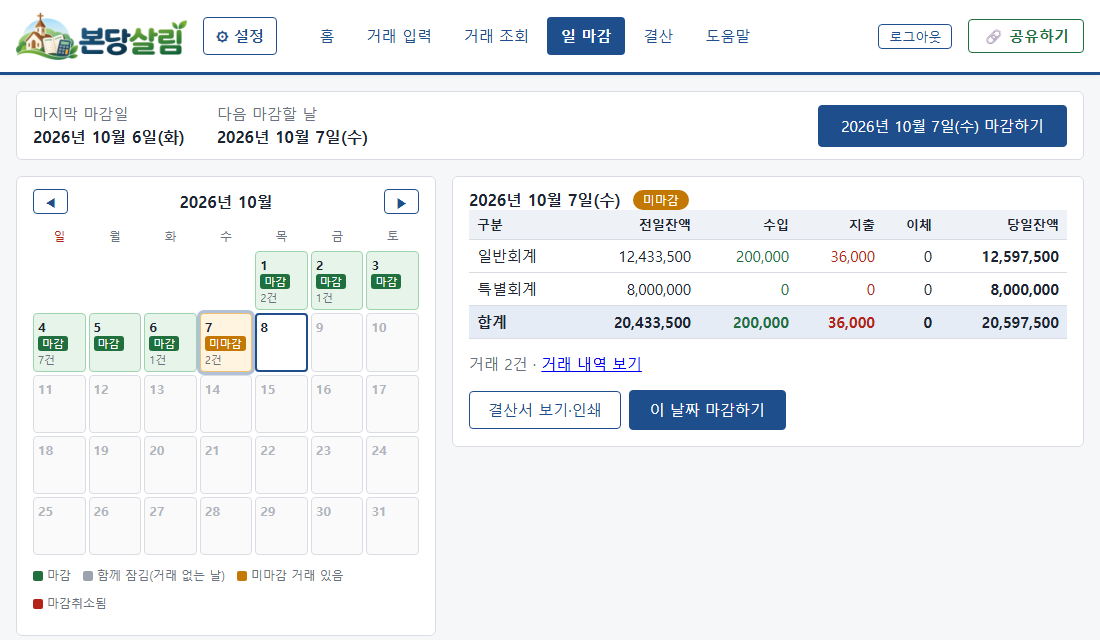
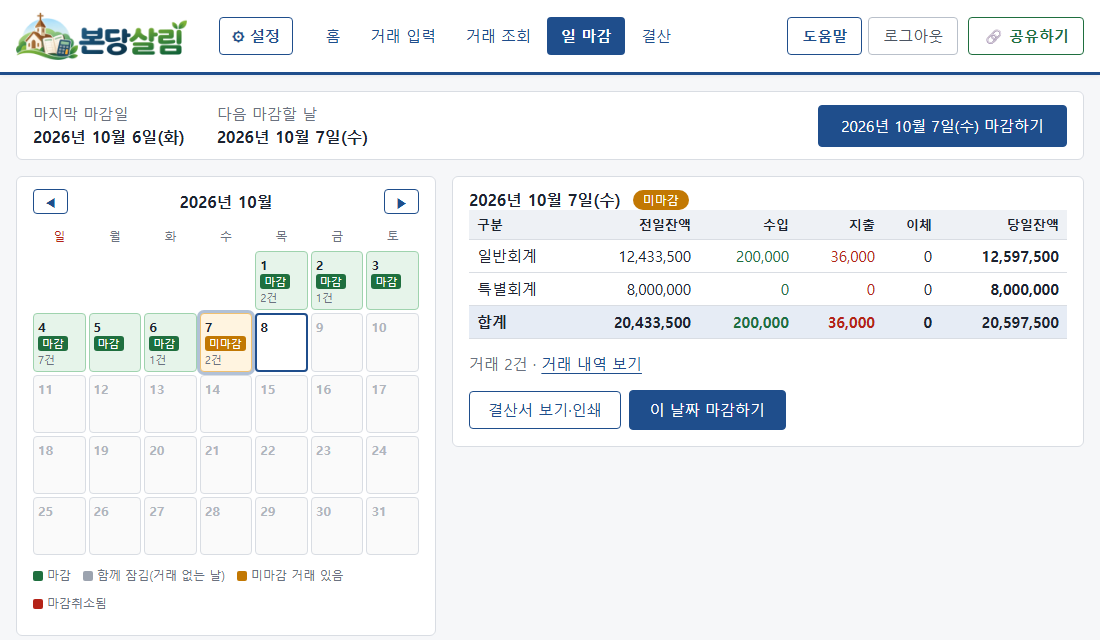
도움말 내용 점검·보완, 사이트 디자인 일관성 다듬기
도움말
- 오른쪽 위 [도움말]로 그 화면 설명이 열린다는 안내, 함께 사용으로 등록된 경우 바로 장부가 열림
- 일 마감: 빨강(마감취소됨), 마감할 때 결산서 작성자 확인, 마감취소 메모는 선택
- 거래 조회: [오늘][이번 달][지난 달], 적요·증빙 검색 / 백업: 홈의 [지금 백업]
- 설정: 운영 개시일은 거래 입력 뒤 변경 불가 / 자주 묻는 질문: [공유하기]
- 화면 그림 4장 다시 찍음 (바뀐 상단 메뉴)

디자인·문구
- 글 속 링크를 사이트 남색으로 (방문한 링크 보라색 없앰)
- 한글은 사이트 전체에서 어절 단위 줄바꿈, 표 칸은 긴 적요도 칸 안에서 줄바꿈
- 로고와 [설정] 사이 여백, 화면이 좁으면 [공유하기]는 아이콘만 (메뉴 한 줄 유지)
- 홈 맨 아래 개발용 문구(DB 연결 정상 · 스키마) 삭제
- 일 마감 확인 창: '입력·수정·취소' → '입력·수정·삭제'
- 개인정보처리방침 표 첫 칸 줄바꿈 없음

diff --git a/public/help.html b/public/help.html
@@ -29,7 +29,7 @@
     <main class="help-main" id="help">
       <section>
         <h1>본당살림 사용 설명서</h1>
-        <p class="muted">처음 쓰시는 분은 1번부터 차례로 읽어 보세요. 궁금한 것만 찾으려면 아래에 단어를 넣으세요.</p>
+        <p class="muted">처음 쓰시는 분은 1번부터 차례로 읽어 보세요. 궁금한 것만 찾으려면 아래에 단어를 넣으세요.<br>어느 화면에서든 오른쪽 위 <b>[도움말]</b>을 누르면 그 화면의 설명이 바로 열립니다.</p>
         <div class="help-search">
           <input id="help-q" type="search" placeholder="예) 마감취소, 이체, 백업, 결재선">
           <button type="button" class="secondary" id="help-clear" hidden>모두 보기</button>
@@ -47,6 +47,7 @@
         <figure><img src="/img/help/setup.png" alt="최초 설정 화면: 성당명, 운영 개시일, 결산서 작성자" loading="lazy" width="1100" height="400"></figure>
         <div class="tip">💡 <b>운영 개시일</b>은 잔액을 확실히 아는 날로 정하세요. 예를 들어 11월 1일로 정하면, 각 통장의 초기잔액은 <b>10월 31일 마감 잔액</b>입니다. 운영 개시일 이전 날짜로는 거래를 넣을 수 없습니다.</div>
         <p>설정을 마치면 홈 화면의 <b>[바탕화면에 아이콘 만들기]</b>를 눌러 두세요. 다음부터는 아이콘만 누르면 열립니다.</p>
+        <p class="help">다른 사람이 [설정 → 함께 사용]에 내 구글 이메일을 등록해 두었다면, 로그인하는 순간 2·3단계 없이 그 성당 장부가 바로 열립니다.</p>
       </section>
 
       <section id="entry" data-keywords="거래 입력 수입 지출 저장 단축키 F2 F3 F4 Enter 수정 삭제 고치기 지우기 적요 증빙">
@@ -82,9 +83,10 @@
         <p>그날 입력을 다 했으면 <b>[일 마감]</b>에서 그날을 마감합니다. 마감한 날은 잠겨서 실수로 바뀌지 않고, 결산서의 "가결산" 표시가 없어집니다.</p>
         <figure><img src="/img/help/closing.png" alt="일 마감 화면: 달력(초록 마감, 주황 미마감)과 선택한 날의 현황, 마감하기 버튼" loading="lazy" width="1100" height="640"></figure>
         <ul>
-          <li>달력 색: <b class="in">초록</b> 마감 · <b style="color:#9ca3af">회색</b> 거래 없는 날(함께 잠김) · <b style="color:#c27803">주황</b> 마감 안 한 거래 있음</li>
+          <li>달력 색: <b class="in">초록</b> 마감 · <b style="color:#9ca3af">회색</b> 거래 없는 날(함께 잠김) · <b style="color:#c27803">주황</b> 마감 안 한 거래 있음 · <b class="out">빨강</b> 마감취소됨</li>
+          <li>[이 날짜 마감하기]를 누르면 그날의 잔액과 <b>결산서 작성자</b>가 나옵니다. 확인하고 [마감]을 누릅니다.</li>
           <li>마감은 <b>날짜 순서대로</b>만 됩니다. 앞 날짜에 마감 안 한 거래가 있으면 뒤 날짜를 마감할 수 없습니다.</li>
-          <li><b>마감취소</b>는 가장 마지막에 마감한 날부터 거꾸로만 됩니다. 마감취소한 뒤 고치고 다시 마감하세요.</li>
+          <li><b>마감취소</b>는 가장 마지막에 마감한 날부터 거꾸로만 됩니다. 달력에서 그날을 고르고 [마감취소]를 누릅니다(메모는 적지 않아도 됩니다). 고친 뒤 다시 마감하세요.</li>
         </ul>
       </section>
 
@@ -95,15 +97,15 @@
         <div class="tip">🖨 인쇄 창에서 <b>용지 A4 · 여백 기본값 · 배율 100 · 머리글과 바닥글 해제</b>로 맞추면 깔끔하게 나옵니다. 종이 오른쪽 아래에 출력 일시가 찍힙니다.</div>
       </section>
 
-      <section id="ledger" data-keywords="거래 조회 검색 기간 통장 잔액 대조 은행">
+      <section id="ledger" data-keywords="거래 조회 검색 기간 오늘 이번 달 지난 달 통장 잔액 대조 은행 증빙">
         <h2><span class="hn">6</span>거래 조회</h2>
-        <p>기간 · 통장 · 과목 · 구분 · 검색어로 거래를 찾습니다. 시작일을 고르면 종료일도 같은 날로 맞춰집니다.</p>
+        <p>기간 · 통장 · 예산과목 · 구분 · 적요(증빙) 검색어로 거래를 찾습니다. <b>[오늘] [이번 달] [지난 달]</b>을 누르면 기간이 바로 정해지고, 시작일을 고르면 종료일도 같은 날로 맞춰집니다.</p>
         <div class="tip">💡 통장을 하나 고르면 거래마다 잔액이 나와서 <b>은행 통장 사본과 한 줄씩 맞춰 볼</b> 수 있습니다.</div>
       </section>
 
       <section id="backup" data-keywords="백업 내려받기 파일 json 보관 USB">
         <h2><span class="hn">7</span>백업</h2>
-        <p>장부는 본당살림 서버에 저장되지만, 만일에 대비해 <b>한 달에 한 번</b>쯤 <b>[설정 → 백업 → 백업 파일 내려받기]</b>로 장부 전체를 파일로 받아 USB나 OneDrive에 두세요.</p>
+        <p>장부는 본당살림 서버에 저장되지만, 만일에 대비해 <b>한 달에 한 번</b>쯤 <b>[설정 → 백업 → 백업 파일 내려받기]</b>로 장부 전체를 파일로 받아 USB나 OneDrive에 두세요. 백업한 지 오래되면 홈 화면에 빨간 글씨로 알려 주고, 거기서 <b>[지금 백업]</b>을 눌러도 됩니다.</p>
         <div class="warn">⚠ 백업 파일에는 신자 이름과 금액이 들어 있습니다. 다른 사람에게 보내지 마세요.</div>
       </section>
 
@@ -135,7 +137,7 @@
         <table class="grid">
           <thead><tr><th>탭</th><th>바꿀 수 있는 것</th></tr></thead>
           <tbody>
-            <tr><td>성당 정보</td><td>성당명, 결산서 작성자</td></tr>
+            <tr><td>성당 정보</td><td>성당명, 결산서 작성자 (운영 개시일은 거래를 입력한 뒤에는 바꿀 수 없음)</td></tr>
             <tr><td>통장 · 예산과목</td><td>추가 · 이름 바꾸기 · 순서 · 사용 중지 (거래가 있으면 지울 수 없고 사용 중지)</td></tr>
             <tr><td>결재선</td><td>결산서 결재란의 직함</td></tr>
             <tr><td>백업</td><td>백업 파일 내려받기</td></tr>
@@ -145,12 +147,13 @@
         </table>
       </section>
 
-      <section id="faq" class="help-faq" data-keywords="질문 문의 집 창 닫기 실수 통장 사무장">
+      <section id="faq" class="help-faq" data-keywords="질문 문의 집 창 닫기 실수 통장 사무장 공유 알리기 다른 성당">
         <h2><span class="hn">?</span>자주 묻는 질문</h2>
         <details><summary>집에서도 쓸 수 있나요?</summary><p>네. 어느 컴퓨터에서든 같은 구글 계정으로 로그인하면 같은 장부가 열립니다.</p></details>
         <details><summary>입력하다 실수로 창을 닫으면 어떻게 되나요?</summary><p>저장 버튼을 누른 거래는 이미 서버에 저장되어 있습니다. 다시 열면 그대로 있습니다.</p></details>
         <details><summary>마감한 날의 거래를 고치고 싶어요.</summary><p>[일 마감]에서 그날까지 마감취소를 한 뒤 고치고, 다시 마감하세요.</p></details>
         <details><summary>통장이 더 이상 필요 없어요.</summary><p>거래가 있는 통장은 지울 수 없고 [사용 중지]로 바꿉니다. 지난 결산서는 그대로 남습니다.</p></details>
+        <details><summary>다른 성당에도 알려 주고 싶어요.</summary><p>오른쪽 위 <b>[공유하기]</b>를 누르면 사이트 주소를 복사할 수 있습니다. 카카오톡이나 문자로 보내 주세요. 각 성당 장부는 따로 만들어져서 우리 성당 자료는 전달되지 않습니다.</p></details>
         <details><summary>사무장이 바뀌면요?</summary><p><a href="#members">9. 사무장이 바뀌었을 때</a>를 보세요.</p></details>
         <details><summary>문의는 어디로 하나요?</summary><p><a href="mailto:jangsangyun0310@gmail.com">jangsangyun0310@gmail.com</a> 으로 보내 주세요.</p></details>
       </section>

diff --git a/public/css/app.css b/public/css/app.css
@@ -16,6 +16,10 @@
 * { box-sizing: border-box; }
 html { scroll-padding-top: 90px; } /* #backup 같은 바로가기가 메뉴 줄에 가리지 않게 */
 body { margin: 0; background: var(--bg); color: var(--text); }
+/* 글 속 링크는 사이트 색(남색)으로. 방문한 링크도 같은 색 */
+a { color: var(--accent); text-underline-offset: 3px; }
+a:visited { color: var(--accent); }
+a:hover { color: #163a6b; }
 
 /* ---- 상단 메뉴 ---- */
 /* 스크롤해도 맨 위 메뉴 줄은 화면 위에 붙어 있다 */
@@ -33,12 +37,12 @@ body { margin: 0; background: var(--bg); color: var(--text); }
 .topbar-inner.wide { max-width: 1280px; }
 .topbar-inner.a4 { max-width: 210mm; padding: 0 4px; } /* 결산서: A4 용지 폭 */
 /* 화면이 넉넉하면 로고는 본문 줄 바깥 왼쪽에 두고, [설정] 버튼부터 본문 왼쪽 줄에 맞춘다.
-   로고 폭 171px + 간격 16px. 화면이 좁으면 로고가 화면 밖으로 나가지 않게 이 배치를 쓰지 않는다. */
-@media (min-width: 1390px) { .topbar-inner:not(.narrow):not(.wide):not(.a4) .brand { margin-left: -187px; } }
-@media (min-width: 1210px) { .topbar-inner.narrow .brand { margin-left: -187px; } }
-@media (min-width: 1630px) { .topbar-inner.wide .brand { margin-left: -187px; } }
-@media (min-width: 1170px) { .topbar-inner.a4 .brand { margin-left: -187px; } }
-.topbar .brand { display: flex; align-items: center; line-height: 0; }
+   로고 폭 171px + 로고 오른쪽 여백 22px + 간격 10px. 화면이 좁으면 로고가 화면 밖으로 나가지 않게 이 배치를 쓰지 않는다. */
+@media (min-width: 1450px) { .topbar-inner:not(.narrow):not(.wide):not(.a4) .brand { margin-left: -203px; } }
+@media (min-width: 1270px) { .topbar-inner.narrow .brand { margin-left: -203px; } }
+@media (min-width: 1690px) { .topbar-inner.wide .brand { margin-left: -203px; } }
+@media (min-width: 1210px) { .topbar-inner.a4 .brand { margin-left: -203px; } }
+.topbar .brand { display: flex; align-items: center; line-height: 0; margin-right: 22px; } /* 로고와 [설정] 사이 여유 */
 .topbar .brand img { height: 48px; width: auto; }
 .topbar .parish-box { display: flex; flex-direction: column; align-items: flex-start; gap: 4px; line-height: 1.3; }
 .topbar .parish { color: var(--text); font-weight: 700; font-size: 15px; }
@@ -349,7 +353,8 @@ ul.start-points { padding-left: 20px; line-height: 1.7; color: #374151; }
 .danger-zone label { max-width: 440px; margin-bottom: 8px; }
 
 /* 한글 문장은 단어(어절) 중간에서 줄을 바꾸지 않는다 (예: "등록은" 이 "등 / 록은" 으로 끊기지 않게) */
-p, li, dd, label { word-break: keep-all; overflow-wrap: break-word; }
+body { word-break: keep-all; overflow-wrap: break-word; }
+td, th { overflow-wrap: anywhere; } /* 띄어쓰기 없는 긴 적요도 칸 안에서 줄바꿈 */
 /* 설정의 [함께 사용] [초기화 / 탈퇴] 탭: 다른 탭과 떨어진 오른쪽 끝. 초기화 / 탈퇴는 빨간색 */
 .tabs button.tab-right { margin-left: auto; }
 .tabs button.tab-danger { background: #fff; color: var(--danger); border: 2px solid var(--danger); font-weight: 600;
@@ -416,3 +421,8 @@ p, li, dd, label { word-break: keep-all; overflow-wrap: break-word; }
 .tabs button.tab-danger { min-width: 128px; } /* 오른쪽 두 탭은 같은 너비 */
 .tabs button.tab-danger:hover:not(.active) { background: #fdf0f0; }
 .tabs button small { font-size: 11px; font-weight: 500; }
+/* 화면이 좁으면 [공유하기]는 아이콘만 (메뉴 줄이 두 줄이 되지 않게) */
+@media (max-width: 1180px) {
+  .topbar .share-btn .label { display: none; }
+  .topbar .brand { margin-right: 12px; }
+}

diff --git a/public/js/ui.js b/public/js/ui.js
@@ -42,7 +42,7 @@ export async function initPage(active, { requireSetup = true } = {}) {
       <span class="account"><a class="help-link ${active === 'help' ? 'active' : ''}" href="${href(HELP_SECTION[active] ? `/help#${HELP_SECTION[active]}` : '/help')}">도움말</a>
         <button type="button" class="secondary small" id="logout-btn"
         title="${esc(account.user.email)} 계정으로 로그인되어 있습니다">로그아웃</button></span>
-      <button type="button" class="share-btn" id="share-btn">🔗 공유하기</button></div>`;
+      <button type="button" class="share-btn" id="share-btn" title="다른 성당에 본당살림 알려주기">🔗<span class="label"> 공유하기</span></button></div>`;
     bar.querySelector('#share-btn')?.addEventListener('click', openShareDialog);
     bar.querySelector('#logout-btn')?.addEventListener('click', logout);
   }

diff --git a/public/js/home.js b/public/js/home.js
@@ -9,8 +9,8 @@ const $ = (id) => document.getElementById(id);
 
 async function main() {
   const { settings } = await initPage('home');
-  const [balances, health, closings, backup] = await Promise.all([
-    api('/api/balances'), api('/api/health'), api('/api/closings'), api('/api/backup/status')]);
+  const [balances, closings, backup] = await Promise.all([
+    api('/api/balances'), api('/api/closings'), api('/api/backup/status')]);
 
   // 바탕화면 아이콘 안내 (이미 설치한 앱 창에서는 숨김)
   if (!isInstalledApp) {
@@ -55,7 +55,6 @@ async function main() {
     <tbody>${rows.join('')}</tbody></table>`;
 
   $('approval').innerHTML = approvalBoxHtml(settings.approvalSteps.map((s) => s.title));
-  $('status').textContent = `DB 연결 정상 · 스키마 ${health.migration ?? '-'}`;
 }
 
 main().catch((err) => {

diff --git a/public/js/closing.js b/public/js/closing.js
@@ -121,7 +121,7 @@ async function openCloseDialog(date) {
   const dlg = $('action-dialog');
   dlg.innerHTML = `
     <h3>${formatKoreanDate(date)} 마감</h3>
-    <p>마감하면 이 날짜와 그 이전 날짜의 거래를 <b>입력·수정·취소할 수 없습니다.</b><br>
+    <p>마감하면 이 날짜와 그 이전 날짜의 거래를 <b>입력·수정·삭제할 수 없습니다.</b><br>
       고쳐야 할 때는 마감취소를 먼저 하면 됩니다.</p>
     <table class="grid summary">
       <thead><tr><th>구분</th><th class="num">전일잔액</th><th class="num">수입</th><th class="num">지출</th>

diff --git a/public/privacy.html b/public/privacy.html
@@ -11,6 +11,7 @@
     .policy h1 { font-size: 22px; margin: 8px 0 4px; }
     .policy h2 { font-size: 16px; margin: 22px 0 6px; }
     .policy table.grid td, .policy table.grid th { vertical-align: top; }
+    .policy table.grid td:first-child { white-space: nowrap; }
   </style>
 </head>
 <body>
